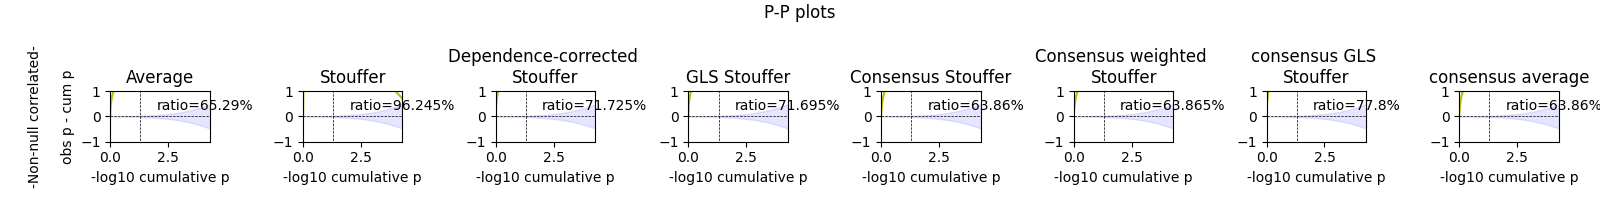
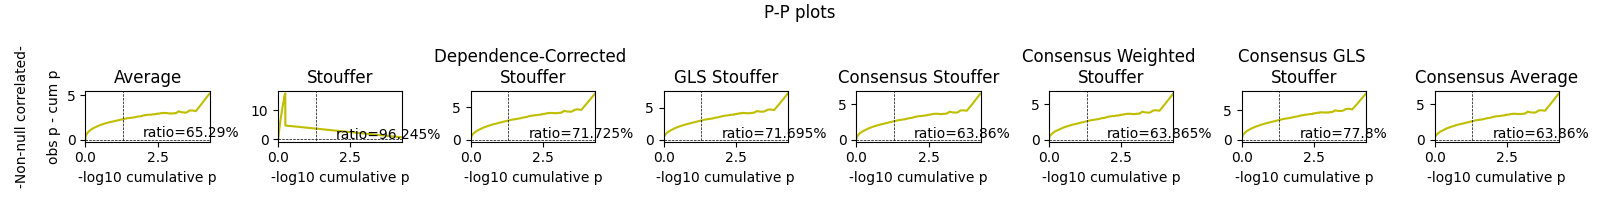
add Narps results

diff --git a/scripts/narps_visualisation.py b/scripts/narps_visualisation.py
@@ -1,0 +1,154 @@
+from nilearn import plotting
+import matplotlib.pyplot as plt
+import numpy
+import nibabel
+from statsmodels.stats.multitest import multipletests
+
+### VISUALIZATION NUMBERS
+def plot_distributions(MA_outputs, hyp, MA_estimators_names, results_dir):
+    plt.close('all')
+    f, axs = plt.subplots(3, len(MA_estimators_names), figsize=(len(MA_estimators_names)*15/5, 5)) 
+    for row in range(3):
+        for col, title in enumerate(MA_estimators_names):
+            T_map=MA_outputs[title]['T_map']
+            p_values=MA_outputs[title]['p_values']
+            # compute ratio of significant p-values
+            ratio_significance = MA_outputs[title]['ratio_significance']
+
+            # supplementary outcome for comparing with narps paper results
+            fdr_results = multipletests(p_values, 0.05, 'fdr_tsbh')
+            fdr_p_values = fdr_results[1]
+            # compute ratio of significant p-values after fdr
+            ratio_significance_raw_fdr = (fdr_p_values<=0.05).sum()/len(fdr_p_values)
+            ratio_significance_fdr = numpy.round(ratio_significance_raw_fdr*100, 4)
+            if row == 0:
+                #t values
+                axs[row, col].title.set_text(title)
+                axs[row, col].hist(T_map, bins=200, color='green')
+                if col ==0:
+                    axs[row, col].set_ylabel("frequency")
+                else:
+                    axs[row, col].set(yticklabels=[])
+
+                axs[row, col].set_xlabel("T value")
+
+            elif row == 1:
+                #pvalues
+                axs[row, col].hist(p_values, bins=500, color='y')
+                if col ==0:
+                    axs[row, col].set_ylabel("frequency")
+                else:
+                    axs[row, col].set(yticklabels=[])
+                axs[row, col].set_xlabel("p value")
+                axs[row, col].axvline(0.05, ymin=0, color='black', linewidth=0.5, linestyle='--')
+                axs[row, col].set_ylim(0, 12000)
+                axs[row, col].text(0.10, 10000, 'ratio={}%'.format(ratio_significance))
+            else:
+                #fdr corrected p values
+                axs[row, col].hist(fdr_p_values, bins=500, color='y')
+                if col ==0:
+                    axs[row, col].set_ylabel("frequency")
+                else:
+                    axs[row, col].set(yticklabels=[])
+                axs[row, col].set_xlabel("p value (fdr)")
+                axs[row, col].axvline(0.05, ymin=0, color='black', linewidth=0.5, linestyle='--')
+                axs[row, col].set_ylim(0, 5000)
+                axs[row, col].text(0.10, 3000, 'ratio (fdr) ={}%'.format(ratio_significance_fdr))
+
+    plt.suptitle('Hypothesis {}'.format(hyp))
+    plt.tight_layout()
+    plt.savefig("{}/hyp{}_MA_outputs.png".format(results_dir, hyp))
+    plt.close('all')
+
+
+### VISUALIZATION BRAIN
+def plot_brains(MA_outputs, hyp, MA_estimators_names, results_dir, masker):
+    plt.close('all')
+    f, axs = plt.subplots(len(MA_estimators_names), 2, figsize=(16, len(MA_estimators_names)*8/5))
+    for row, title in enumerate(MA_estimators_names):
+        T_map=MA_outputs[title]['T_map']
+        p_values=MA_outputs[title]['p_values']
+        # compute ratio of significant p-values
+        ratio_significance = MA_outputs[title]['ratio_significance']
+
+        if row==0:
+            axs[row, 0].set_title("P values")
+            axs[row, 1].set_title("P values FDR corrected")
+        # raw p values
+        perc_sign_voxels = numpy.round(numpy.sum(p_values<=0.05)*100/len(p_values), 4)
+        assert ratio_significance == perc_sign_voxels
+
+        # with fdr 
+        fdr_results = multipletests(p_values, 0.05, 'fdr_tsbh')
+        perc_sign_voxels_fdr = numpy.round(numpy.sum(fdr_results[0])*100/len(fdr_results[0]), 4)
+        fdr_p_values = 1 - fdr_results[1]
+
+        # back to 3D
+        # p_brain_sign = masker.inverse_transform(p_stat)
+        p_brain = masker.inverse_transform(p_values)
+        p_brain_fdr = masker.inverse_transform(fdr_p_values)
+        t_brain = masker.inverse_transform(T_map)
+
+        # apply threshold
+        pdata = p_brain.get_fdata()
+        pdata_fdr = p_brain_fdr.get_fdata()
+        tdata = t_brain.get_fdata()
+        threshdata_fdr = (pdata_fdr > 0.95)*tdata #0.95 is threshold significance
+        threshdata = (pdata <= 0.05)*tdata #0.05 is threshold significance
+        threshimg_fdr = nibabel.Nifti1Image(threshdata_fdr, affine=t_brain.affine)
+        threshimg = nibabel.Nifti1Image(threshdata, affine=t_brain.affine)
+
+        long_title_fdr = title + ', {}%'.format(perc_sign_voxels_fdr)
+        long_title = title + ', {}%'.format(perc_sign_voxels)
+
+        # plotting.plot_stat_map(t_brain, title=long_title, colorbar=True, cut_coords=(-24, -10, 4, 18, 32, 52, 64), display_mode='z', cmap="coolwarm", ax=axs[row, 0])
+        # plt.savefig("results_narpsdata/{}_hyp{}_t_map.png".format(title, hyp))
+        # plt.close('all')
+        # plotting.plot_stat_map(p_brain, threshold=0.1, title=long_title, colorbar=True, cut_coords=(-24, -10, 4, 18, 32, 52, 64), display_mode='z', cmap="Reds")
+        # plt.savefig("results_narpsdata/{}_hyp{}_p_map.png".format(title, hyp))
+        # plt.close('all')
+        plotting.plot_stat_map(threshimg_fdr, annotate=False, title=long_title_fdr, threshold=0.1,vmax=8, colorbar=True, cut_coords=(-24, -10, 4, 18, 32, 52, 64), display_mode='z', cmap='Reds', axes=axs[row, 1])
+        plotting.plot_stat_map(threshimg, annotate=False, title=long_title, threshold=0.1,vmax=8, colorbar=True, cut_coords=(-24, -10, 4, 18, 32, 52, 64), display_mode='z', cmap='Reds', axes=axs[row, 0])
+        
+        # plt.savefig("results_narpsdata/{}_hyp{}_p_sign_map.png".format(title, hyp))
+        # plt.close('all')
+    plt.suptitle('Hypothesis {}'.format(hyp))
+    plt.savefig("{}/thresholded_map_hyp{}.png".format(results_dir, hyp))
+    plt.close('all')
+
+### VISUALIZATION BRAIN
+def plot_brain_nofdr(MA_outputs, hyp, MA_estimators_names, results_dir, masker):
+    plt.close('all')
+    f, axs = plt.subplots(len(MA_estimators_names), 1, figsize=(8, len(MA_estimators_names)*8/5))
+    for row, title in enumerate(MA_estimators_names):
+        T_map=MA_outputs[title]['T_map']
+        p_values=MA_outputs[title]['p_values']
+        # compute ratio of significant p-values
+        ratio_significance = MA_outputs[title]['ratio_significance']
+        # raw p values
+        perc_sign_voxels = numpy.round(numpy.sum(p_values<=0.05)*100/len(p_values), 4)
+        # back to 3D
+        # p_brain_sign = masker.inverse_transform(p_stat)
+        p_brain = masker.inverse_transform(p_values)
+        t_brain = masker.inverse_transform(T_map)
+
+        # apply threshold
+        pdata = p_brain.get_fdata()
+        tdata = t_brain.get_fdata()
+        threshdata = (pdata <= 0.05)*tdata #0.05 is threshold significance
+        threshimg = nibabel.Nifti1Image(threshdata, affine=t_brain.affine)
+        long_title = title + ', {}%'.format(perc_sign_voxels)
+
+        # plotting.plot_stat_map(t_brain, title=long_title, colorbar=True, cut_coords=(-24, -10, 4, 18, 32, 52, 64), display_mode='z', cmap="coolwarm", ax=axs[row, 0])
+        # plt.savefig("results_narpsdata/{}_hyp{}_t_map.png".format(title, hyp))
+        # plt.close('all')
+        # plotting.plot_stat_map(p_brain, threshold=0.1, title=long_title, colorbar=True, cut_coords=(-24, -10, 4, 18, 32, 52, 64), display_mode='z', cmap="Reds")
+        # plt.savefig("results_narpsdata/{}_hyp{}_p_map.png".format(title, hyp))
+        # plt.close('all')
+        plotting.plot_stat_map(threshimg, annotate=False, title=long_title, threshold=0.1,vmax=8, colorbar=True, cut_coords=(-24, -10, 4, 18, 32, 52, 64), display_mode='z', cmap='Reds', axes=axs[row])
+        
+        # plt.savefig("results_narpsdata/{}_hyp{}_p_sign_map.png".format(title, hyp))
+        # plt.close('all')
+    plt.suptitle('Hypothesis {}'.format(hyp))
+    plt.savefig("{}/thresholded_map_hyp{}_nofdr.png".format(results_dir, hyp))
+    plt.close('all')

diff --git a/scripts/run_SDMA_in_NARPS.py b/scripts/run_SDMA_in_NARPS.py
@@ -1,0 +1,88 @@
+
+import os
+import numpy
+import nibabel
+import time
+from nilearn.input_data import NiftiMasker
+import extract_narps_data
+import compute_MA_outputs
+import narps_visualisation
+import importlib
+
+importlib.reload(narps_visualisation)
+
+'''
+hypotheses = {1: '+gain: equal indiff',
+              2: '+gain: equal range',
+              3: '+gain: equal indiff',
+              4: '+gain: equal range',
+              5: '-loss: equal indiff',
+              6: '-loss: equal range',
+              7: '+loss: equal indiff',
+              8: '+loss: equal range',
+              9: '+loss:ER>EI'}
+'''
+
+results_dir = "results_in_Narps"
+if not os.path.exists(results_dir):
+    os.mkdir(results_dir)
+
+data_path = '/home/jlefortb/neurovault_narps_open_pipeline/orig/'
+participant_mask = nibabel.load("masking/mask_90.nii")
+
+# save mask for inverse transform
+masker = NiftiMasker(
+    mask_img=participant_mask)
+results_dir = "results_narpsdata"
+if not os.path.exists(results_dir):
+    os.mkdir(results_dir)
+
+#### NOT INCLUDED IN ANALYSIS 
+# "4961_K9P0" only hyp 9 is weird
+weird_maps = ["4951_X1Z4", "5680_L1A8", "5001_I07H", 
+    "4947_X19V", "4961_K9P0", "4974_1K0E", "4990_XU70",
+        "5001_I07H", "5680_L1A8"]
+
+MA_estimators_names = ["Average",
+    "Stouffer",
+    "Dependence-Corrected \nStouffer",
+    "GLS Stouffer",
+    "Consensus Stouffer",
+    "Consensus Weighted \nStouffer",
+    "Consensus GLS \nStouffer",
+    "Consensus Average"]
+
+hyps = [1, 2, 5, 6, 7, 8, 9]#numpy.arange(1, 10, 1)
+for hyp in hyps:
+    # check if resampled_maps already exists:
+    try:
+        resampled_maps = numpy.load('{}/Hyp{}_resampled_maps.npy'.format(results_dir, hyp))
+        print("resampled_maps successfully loaded")
+    except:
+        print("Data don't already exist thus starting resampling.")
+        resampled_maps = extract_narps_data.resample_NARPS_unthreshold_maps(data_path, hyp, weird_maps, participant_mask, masker)
+        print("Saving resampled NARPS unthreshold maps...")
+        numpy.save("{}/Hyp{}_resampled_maps".format(results_dir, hyp), resampled_maps, allow_pickle=True, fix_imports=True)
+    print("Starting Masking...")
+    resampled_maps = masker.fit_transform(resampled_maps)
+    print("Masking DONE")
+    print("*****")
+    print("Z values extracted, shape=", resampled_maps.shape) # 61, 1537403 for hyp 1
+    print("*****")
+    time.sleep(2)
+    # compute several MA estimators for the obtained matrix
+    try:
+        MA_outputs = numpy.load('{}/Hyp{}_MA_estimates.npy'.format(results_dir, hyp),allow_pickle=True).item()
+        print("MA_outputs successfully loaded")
+    except:
+        print("Data don't already exist thus recomputing MA estimates.")
+        MA_outputs = compute_MA_outputs.get_MA_outputs(resampled_maps)
+        print("Saving MA estimates...")
+        numpy.save("{}/Hyp{}_MA_estimates".format(results_dir, hyp), MA_outputs, allow_pickle=True, fix_imports=True)
+    print("Building figure 1...")
+    narps_visualisation.plot_distributions(MA_outputs, hyp, MA_estimators_names, results_dir)
+    print("Building figure 2...")
+    narps_visualisation.plot_brains(MA_outputs, hyp, MA_estimators_names, results_dir, masker)
+    print("Building figure 3...")
+    narps_visualisation.plot_brain_nofdr(MA_outputs, hyp, MA_estimators_names, results_dir, masker)
+    resampled_maps = None # empyting RAM memory

diff --git a/scripts/extract_narps_data.py b/scripts/extract_narps_data.py
@@ -1,0 +1,46 @@
+import os
+import glob
+from nilearn import image
+from os.path import join as opj
+
+def resample_NARPS_unthreshold_maps(data_path, hyp, subjects_removed_list, mask):
+    print("Extracting data from hypothesis ", hyp)
+    # extract subject list
+    subjects_list = []
+    for path_to_sub in glob.glob(opj(data_path, "*/hypo{}_unthresh.nii.gz".format(hyp))):
+        subjects_list.append(path_to_sub.split('/')[-2])
+    # Resample unthreshold maps for a given hypothesis + mask
+    resampled_maps = []
+    for i_sub, subject in enumerate(subjects_list):
+        if i_sub%10==0:
+            print('resample image ', i_sub, '/', len(subjects_list))
+        # zmaps to remove from mask because weird
+        if subject in subjects_removed_list:
+            print(subject, ' got a weird map thus not included')
+            continue
+        unthreshold_map = os.path.join(data_path, '{}/hypo{}_unthresh.nii.gz'.format(subject, hyp))
+        ## DEBUGGING
+        # print('MAP shape: ', nibabel.load(unthreshold_map).get_fdata().shape)
+        # print('MNI shape: ', mask.get_fdata().shape)
+        # resample MNI
+        resampled_map = image.resample_to_img(
+                    unthreshold_map,
+                    mask,
+                    interpolation='nearest')
+        # check in narps if it was done this way !! => yes, see "suivi jeremy" doc
+        assert resampled_map.get_fdata().shape == mask.get_fdata().shape
+        # print("Testing equality (if nothing is displayed before ***, matrices are equal)")
+        # numpy.testing.assert_array_equal(resampled_map.affine, mask.affine)
+        # print("***")
+        resampled_maps.append(resampled_map)
+        # if i_sub%20==0: # debugging every 20 maps
+        #     plt.close('all')
+        #     plotting.plot_stat_map(nibabel.load(unthreshold_map), cut_coords=(-21, 0, 9))
+        #     plotting.plot_stat_map(resampled_map, cut_coords=(-21, 0, 9))
+        #     plt.show()
+        resampled_map = None # emptying RAM memory
+    print("Resample DONE")
+    return resampled_maps
+
+if __name__ == "__main__":
+   print('This file is intented to be used as imported only')

diff --git a/scripts/utils.py b/scripts/utils.py
@@ -40,7 +40,6 @@ def plot_PP(MA_outputs, contrast_estimates,simulation):
           p_obs_p_cum = minusLog10me(df_obs['p_values'].values) - minusLog10me(p_cum)
 
           # make pplot
-
           axs[col].set_xlabel("-log10 cumulative p")
           axs[col].title.set_text(title)
           axs[col].plot(minusLog10me(p_cum), p_obs_p_cum, color='y')
@@ -52,12 +51,15 @@ def plot_PP(MA_outputs, contrast_estimates,simulation):
           axs[col].axhline(0, color='black', linewidth=0.5, linestyle='--')
 
           # add theoretical confidence interval
-          ci = numpy.array([2*numpy.sqrt(p_c*(1-p_c)/J) for p_c in p_cum])
-          p_obs_p_cum_ci_above = minusLog10me(numpy.array(p_cum)+ci) - minusLog10me(p_cum)
-          p_obs_p_cum_ci_below = p_obs_p_cum_ci_above*-1
-          axs[col].fill_between(minusLog10me(p_cum), p_obs_p_cum_ci_below, p_obs_p_cum_ci_above, color='b', alpha=.1)
-          axs[col].set_xlim(0, x_lim_pplot)
-          axs[col].set_ylim(-1, 1)
+          if "Non-null" not in simulation:
+               ci = numpy.array([2*numpy.sqrt(p_c*(1-p_c)/J) for p_c in p_cum])
+               p_obs_p_cum_ci_above = minusLog10me(numpy.array(p_cum)+ci) - minusLog10me(p_cum)
+               p_obs_p_cum_ci_below = p_obs_p_cum_ci_above*-1
+               axs[col].fill_between(minusLog10me(p_cum), p_obs_p_cum_ci_below, p_obs_p_cum_ci_above, color='b', alpha=.1)
+               axs[col].set_xlim(0, x_lim_pplot)
+               axs[col].set_ylim(-1, 1)
+          else:
+               axs[col].set_xlim(0, x_lim_pplot)
           color= 'green' if verdict == True else 'black'
           axs[col].text(2, 0.25, 'ratio={}%'.format(ratio_significance), color=color)
 
@@ -95,6 +97,8 @@ def plot_QQ(MA_outputs, contrast_estimates,simulation, which="p"):
      plt.tight_layout()
      plt.savefig("results_in_generated_data/qq_plot_{}.png".format(simulation))
      plt.close('all')
+
+
 
 
 

diff --git a/scripts/compute_MA_outputs.py b/scripts/compute_MA_outputs.py
@@ -1,11 +1,9 @@
 import numpy
 import MA_estimators
-import data_generator 
 import importlib
+importlib.reload(MA_estimators) # reupdate imported codes, useful for debugging
 
 def get_MA_outputs(contrast_estimates):
-	importlib.reload(MA_estimators) # reupdate imported codes, useful for debugging
-
 	# Store results in:
 	results_simulation = {}
 	
@@ -27,12 +25,12 @@ def get_MA_outputs(contrast_estimates):
 		} 
 	run_estimator("Average", MA_estimators.average)
 	run_estimator("Stouffer", MA_estimators.Stouffer)
-	run_estimator("Dependence-corrected \nStouffer", MA_estimators.dependence_corrected_Stouffer)
+	run_estimator("Dependence-Corrected \nStouffer", MA_estimators.dependence_corrected_Stouffer)
 	run_estimator("GLS Stouffer", MA_estimators.GLS_Stouffer)
 	run_estimator("Consensus Stouffer", MA_estimators.consensus_Stouffer)
-	run_estimator("Consensus weighted \nStouffer", MA_estimators.weighted_Stouffer)
-	run_estimator("consensus GLS \nStouffer", MA_estimators.consensus_GLS_Stouffer)
-	run_estimator("consensus average", MA_estimators.consensus_average)
+	run_estimator("Consensus Weighted \nStouffer", MA_estimators.weighted_Stouffer)
+	run_estimator("Consensus GLS \nStouffer", MA_estimators.consensus_GLS_Stouffer)
+	run_estimator("Consensus Average", MA_estimators.consensus_average)
 
 	return results_simulation
 

diff --git a/scripts/run_SDMA_in_generated_data.py b/scripts/run_SDMA_in_generated_data.py
@@ -17,13 +17,12 @@ if not os.path.exists(results_dir):
     os.mkdir(results_dir)
 
 # plot data (takes 30 sec)
+plot_generated_data.plot_data()
 
-# plot_generated_data.plot_data()
-
+## DEBUGGING
 def print_summary_results(MA_outputs):
     for model in MA_outputs.keys():
         print(model, " T-map (5 first): ", MA_outputs[model]['T_map'][:5])
-
 
 for simulation in ["Null", "Null correlated", "Null correlated medium", "Null correlated low", "Non-null correlated", "Non-null heterogeneous"]:
     if simulation == "Null correlated medium":
@@ -35,9 +34,12 @@ for simulation in ["Null", "Null correlated", "Null correlated medium", "Null co
     MA_outputs = compute_MA_outputs.get_MA_outputs(contrast_estimates)
     K, J = contrast_estimates.shape
     utils.plot_PP(MA_outputs,contrast_estimates,simulation)
-    utils.plot_QQ(MA_outputs,contrast_estimates,simulation)
+    if "Non-null" not in simulation:
+        utils.plot_QQ(MA_outputs,contrast_estimates,simulation)
     utils.compare_contrast_estimates_plot(MA_outputs, simulation)
-    print(simulation)
-    print_summary_results(MA_outputs)
+    ## DEBUGGING
+    # print(simulation)
+    # print_summary_results(MA_outputs)
     print("*** Simulation for {} is DONE".format(simulation))
     print(" "*100)
+

diff --git a/scripts/MA_estimators.py b/scripts/MA_estimators.py
@@ -151,3 +151,7 @@ def consensus_average(contrast_estimates):
     p_values = 1 - scipy.stats.norm.cdf(T_map)
     p_values = p_values.reshape(-1)
     return T_map, p_values
+
+if __name__ == "__main__":
+   print('This file is intented to be used as imported only')
+
